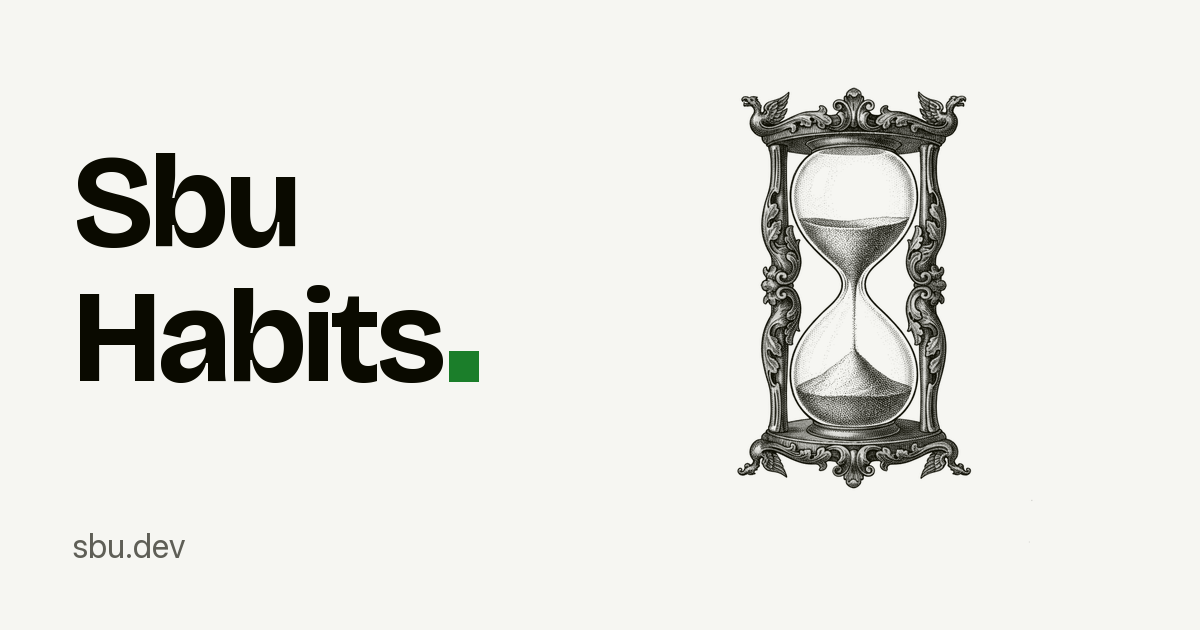
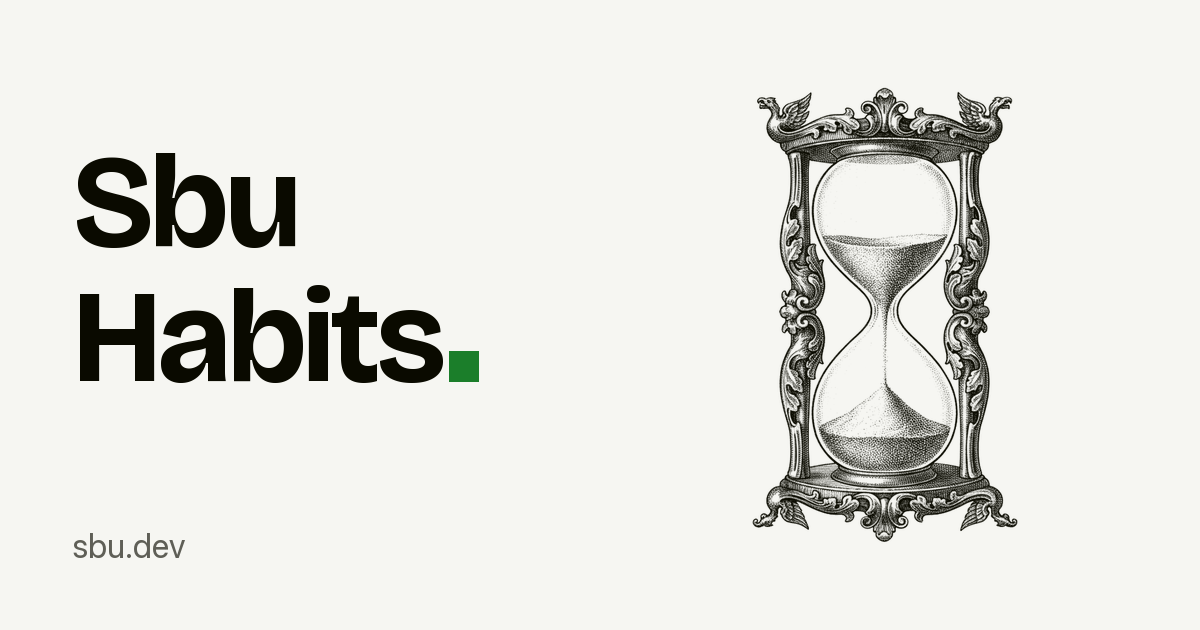
Engravings as alpha masks, so Safari draws them instead of a solid square
Safari has no luminance mask mode: the whole mask declaration was
dropped and every plate and list mark rendered as an ink square. The
sources in Design/icons/source are now white with the ink in alpha;
the site masks in the default alpha mode, make_icons.py and make_og.py
read the alpha channel. Icons regenerate identical; the habits and
clean link previews are refreshed.

Claude-Session: https://claude.ai/code/session_01KkmHVpek3ovqLxGTQ7WZjv

Changed region(s): [[0.6167, 0.1206, 0.8633, 0.8746]]

diff --git a/Site/src/lib/apps.ts b/Site/src/lib/apps.ts
@@ -6,11 +6,11 @@ import { getCollection, type CollectionEntry } from 'astro:content';
 import { ui, type Locale } from '../i18n';
 
 const icons = import.meta.glob<string>('../../../Design/icons/*.png', { query: '?url', import: 'default', eager: true });
-// The engraving alone, as an ink mask (white = ink): the app page draws it in `ink`, so it follows the theme.
+// The engraving alone, as an alpha ink mask: the app page draws it in `ink`, so it follows the theme.
 const specs: Record<string, { name?: Record<Locale, string> }> = JSON.parse(readFileSync(resolve(process.cwd(), '..', 'Design', 'icons', 'engravings.json'), 'utf8'));
 const engravings = import.meta.glob<ImageMetadata>('../../../Design/icons/source/*.png', { import: 'default', eager: true });
 
-/** The ink mask as a small WebP: the 1024px originals weigh up to 950 kB. Luminance masking works on any image. */
+/** The ink mask as a small WebP: the 1024px originals weigh up to 950 kB. WebP keeps the alpha the mask reads. */
 async function engraving(slug: string, width: number): Promise<string | undefined> {
   const source = engravings[`../../../Design/icons/source/sbu-${slug}.png`];
   return source ? (await getImage({ src: source, width, format: 'webp' })).src : undefined;

diff --git a/Site/src/styles/global.css b/Site/src/styles/global.css
@@ -129,7 +129,7 @@
     width: calc(var(--spacing-12) * 7);
     aspect-ratio: 1;
     background: var(--sbu-line);
-    mask: var(--engraving) center / contain no-repeat luminance;
+    mask: var(--engraving) center / contain no-repeat;
   }
   @media (prefers-reduced-motion: no-preference) {
     /* Each line is printed in turn, the same rising reveal as the app page's engraving. */
@@ -145,11 +145,11 @@
   .column { max-width: 70ch; min-width: 0; }
   .plate { display: grid; gap: var(--spacing-2); width: min(100%, calc(var(--spacing-12) * 6)); }
   .plate-lead { order: -1; }
-  /* The ink mask is white on black: luminance keeps the strokes, the paper shows through the rest. */
+  /* The ink mask is alpha (Safari has no luminance masks): the strokes keep `ink`, the paper shows through the rest. */
   .plate-art {
     aspect-ratio: 1;
     background: var(--sbu-ink);
-    mask: var(--engraving) center / contain no-repeat luminance;
+    mask: var(--engraving) center / contain no-repeat;
   }
   @media (min-width: 64rem) {
     .reading { grid-template-columns: minmax(0, 70ch) minmax(0, 1fr); align-items: start; }

diff --git a/Tools/screenshots/store.html b/Tools/screenshots/store.html
@@ -66,7 +66,7 @@
   }
 
   const esc = s => s.replace(/[&<>"]/g, c => `&#${c.charCodeAt(0)};`);
-  const mask = `url('${app.engraving}') center / contain no-repeat luminance`;
+  const mask = `url('${app.engraving}') center / contain no-repeat`;
   const pano = `
     <div class="engraving" style="left:${W - 1100}px;-webkit-mask:${mask};mask:${mask}"></div>
     ${app.shots.map((s, i) => {

diff --git a/Tools/make_icons.py b/Tools/make_icons.py
@@ -7,8 +7,8 @@ warm black (`ink`) on paper (`surface`), centred, with the square full stop in t
 in the accent's dark value. Tinted: the dark variant in greys, for iOS to tint.
 
 Subjects live in Design/icons/engravings.json ({name: {accent, subject}}). The engraving is
-kept as a greyscale ink mask in Design/icons/source/sbu-<name>.png (white = ink), so icons
-rebuild without calling a model.
+kept as an ink mask in Design/icons/source/sbu-<name>.png (white, alpha = ink), so icons
+rebuild without calling a model and the site can mask with it in every browser.
 
 Usage:
   python3 Tools/make_icons.py level [--appiconset Apps/SbuLevel/SbuLevel/Assets.xcassets/AppIcon.appiconset]
@@ -206,10 +206,11 @@ def main() -> None:
     if args.generate or args.from_image:
         raw = generate(spec["subject"]) if args.generate else Image.open(args.from_image)
         source.parent.mkdir(parents=True, exist_ok=True)
-        ink_mask(raw).save(source)
+        mask = ink_mask(raw)
+        Image.merge("LA", (Image.new("L", mask.size, 255), mask)).save(source)
     if not source.exists():
         sys.exit(f"{source.relative_to(ROOT)} is missing: run with --generate or --from-image")
-    mask = Image.open(source).convert("L")
+    mask = Image.open(source).getchannel("A")
 
     ink, surface = palette["ink"], palette["surface"]
     variants = {

diff --git a/Tools/make_og.py b/Tools/make_og.py
@@ -57,7 +57,7 @@ def footer(draw: ImageDraw.ImageDraw, colors: dict) -> None:
 
 def app_card(name: str, accent: str, colors: dict) -> Image.Image:
     image = Image.new("RGB", (W, H), colors["surface"])
-    mask = Image.open(SOURCES / f"sbu-{name}.png").convert("L").resize((H - 40, H - 40), Image.LANCZOS)
+    mask = Image.open(SOURCES / f"sbu-{name}.png").getchannel("A").resize((H - 40, H - 40), Image.LANCZOS)
     image.paste(Image.new("RGB", mask.size, colors["ink"]), (W - mask.width - 20, 20), mask)
     draw = ImageDraw.Draw(image)
     title(draw, ["Sbu", name.capitalize()], 132, PAD + 40, colors["ink"], colors[accent])
